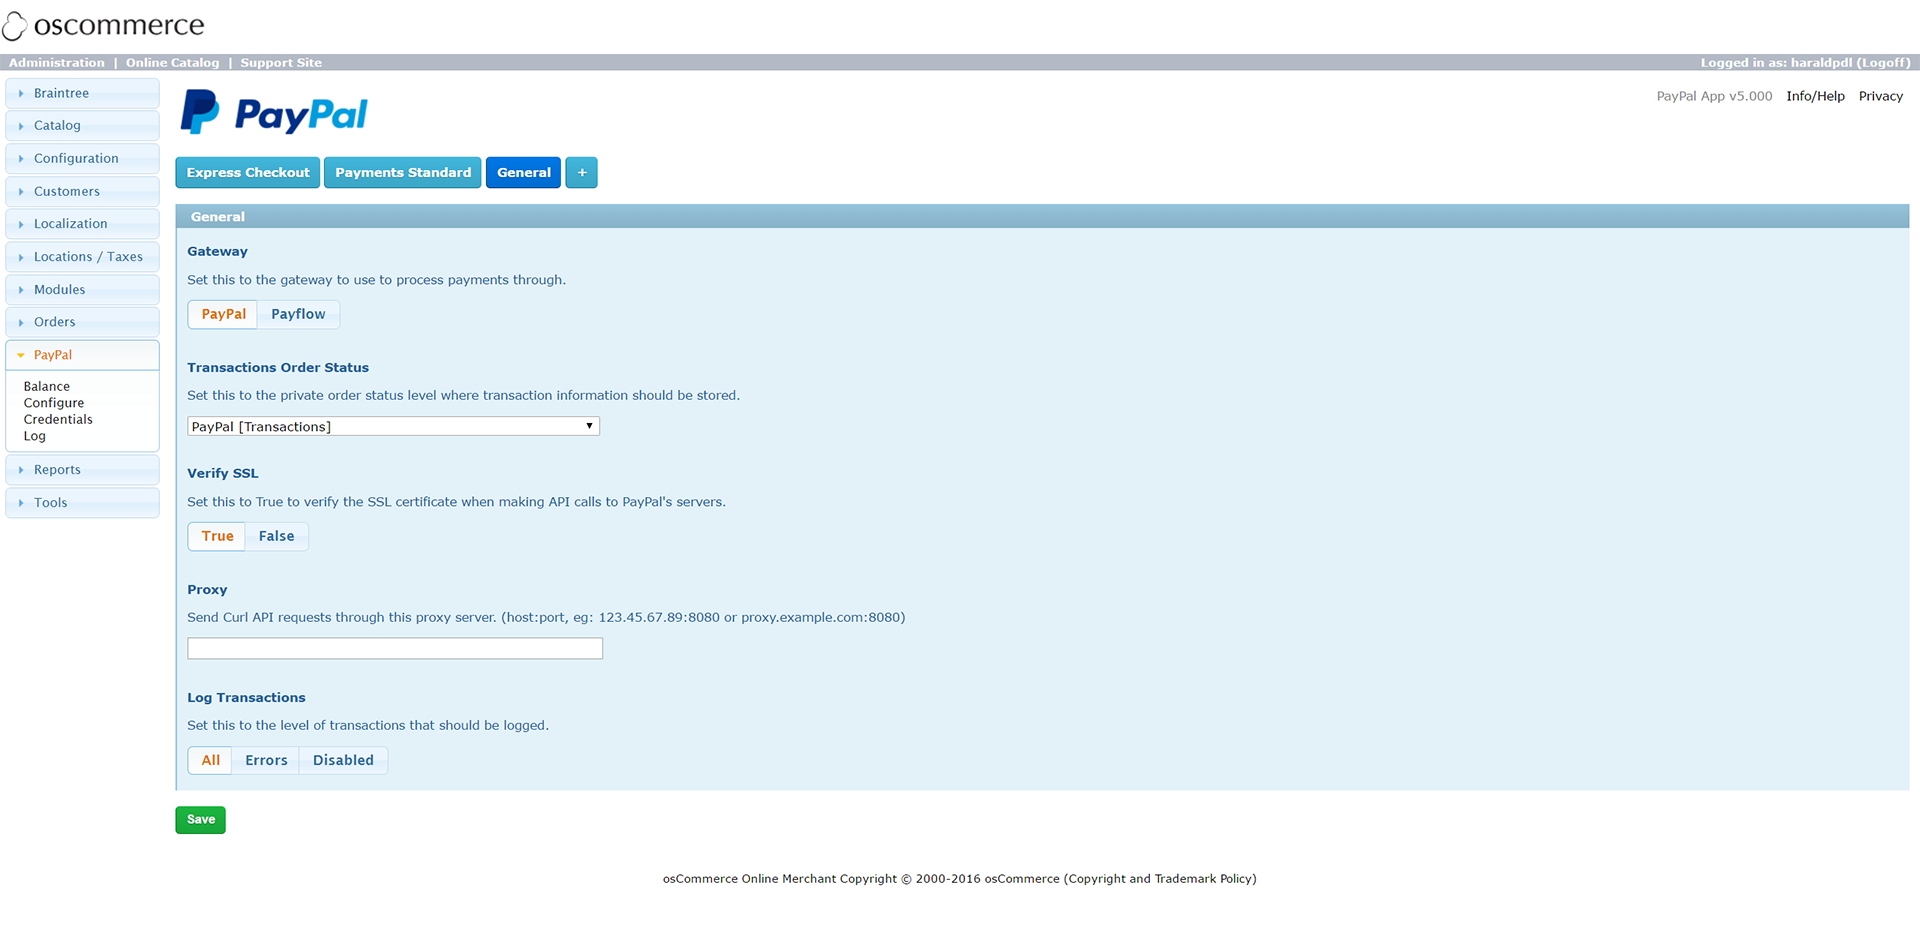
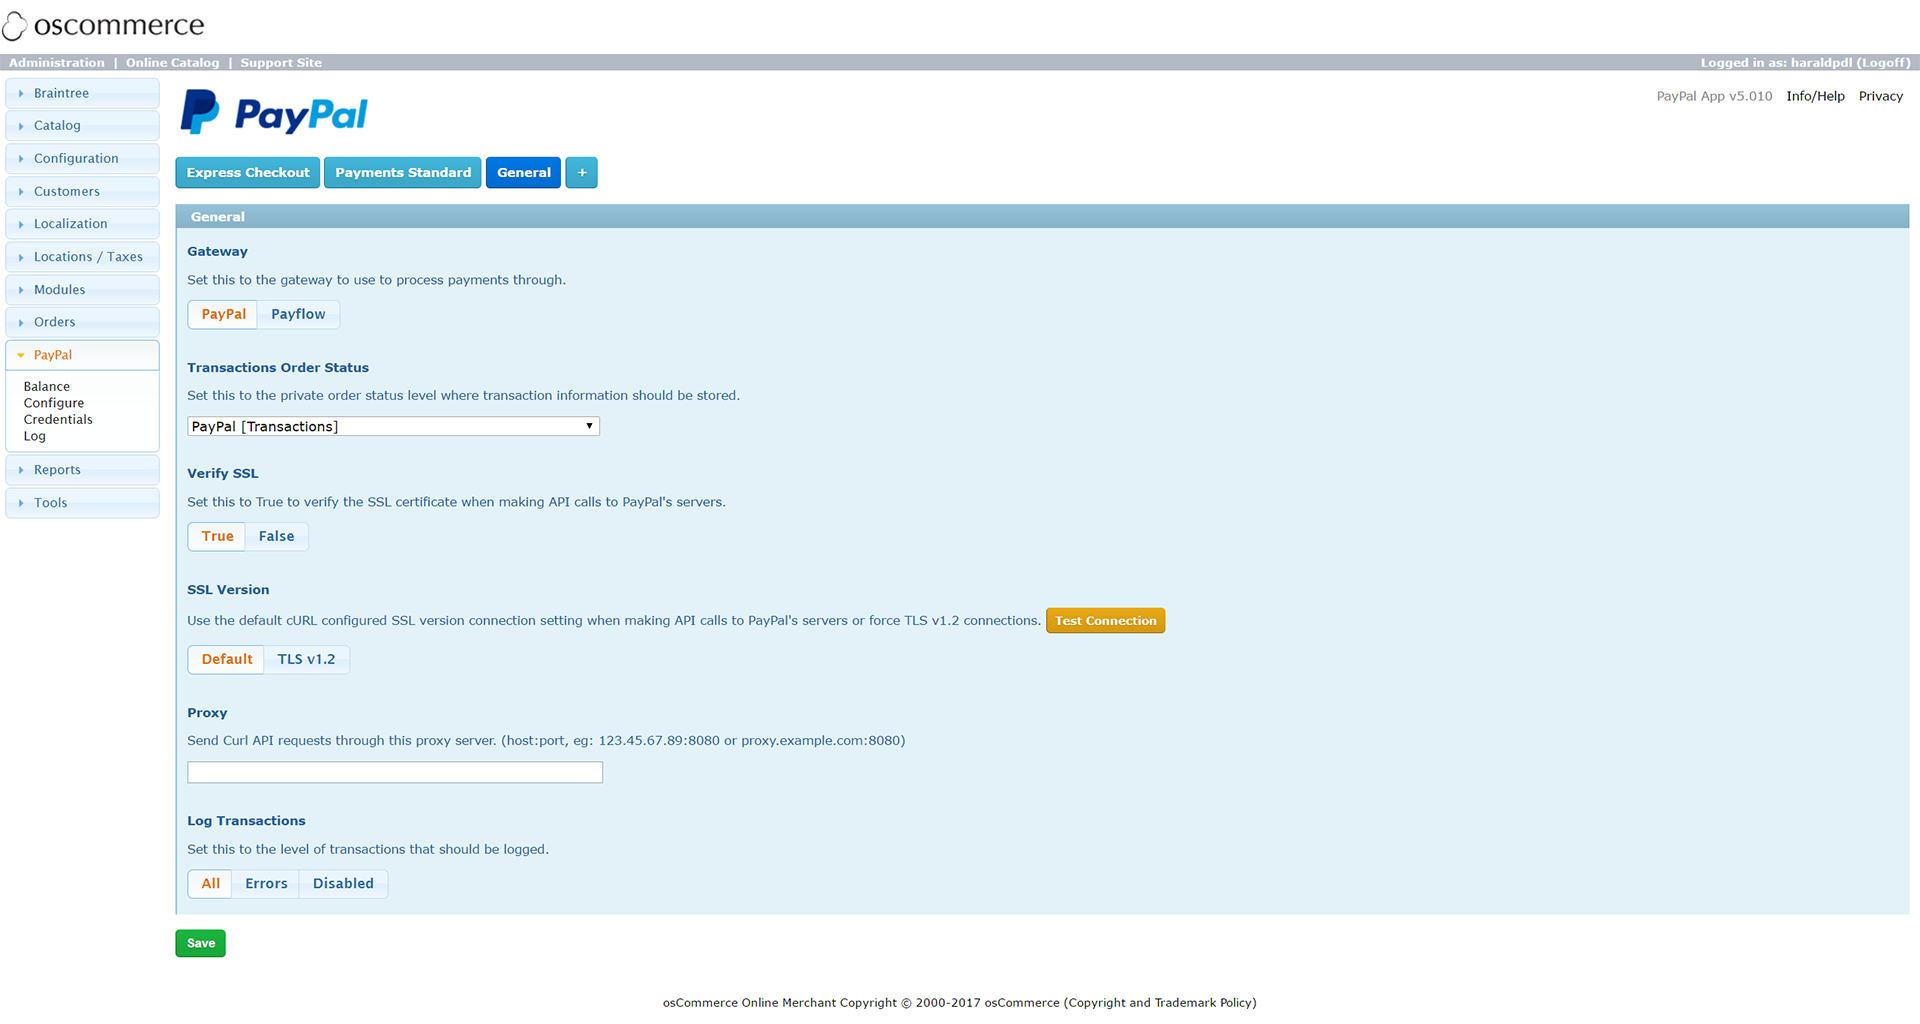
documentation for the SSL Version configuration parameter and Test Connection dialog

Changed region(s): [[0.0, 0.0, 1.0, 0.9605], [0.3438, 0.9295, 0.6562, 0.9915]]

diff --git a/oscom23/ssl_version.html b/oscom23/ssl_version.html
@@ -1,0 +1,17 @@
+<h3 class="notoc">TLS v1.2 Connections <small>cURL SSL Version</small></h3>
+
+<p>The Payment Card Industry Security Standards Council (PCI SSC) has mandated that from June 30, 2018 secure communication channels between two systems must be performed with a secure version of the Transport Layer Security (TLS) cryptographic protocol (currently v1.1 or higher). As a leader in Financial Technology, PayPal has elected to move forward with upgrading their systems prior to the PCI Council recommended date and are requiring all merchant API communications with PayPal to be performed with <strong>TLS v1.2</strong> from <strong>June 30, 2017</strong>, discontinuing support for TLS v1.0 and v1.1.</p>
+
+<p>Checking to see if the PayPal App can perform TLS v1.2 connections on your web server can be performed on the <span class="label label-default">Configure</span> &rarr; <span class="label label-info">General</span> page using the <span class="label label-warning">Test Connection</span> button shown in the SSL Version parameter configuration. This opens a dialog window showing the result of the connection test using the default SSL version configured with PHP/cURL and with a forced connection using TLS v1.2.</p>
+
+{image}app-ssl_version-01.png|The Test Connection dialog showing successful connections for the default PHP/cURL configuration and forced TLS v1.2 connections{image}
+
+<p>If the default setting is successful, it is generally safe to leave the SSL Version configuration parameter set to <i>Default</i>. This ensures that a connection to PayPal can be performed using at least TLS v1.2 or higher cryptographic protocol version.</p>
+
+{image}app-ssl_version-02.png|The Test Connection dialog showing a failed connection test using the default PHP/cURL configuration{image}
+
+<p>If a connection using the default PHP/cURL configuration fails, setting the SSL Version configuration parameter to <i>TLS v1.2</i> is required if the test connection using TLS v1.2 is successful. This overrides the default configuration of PHP/cURL on your web server and ensures that a connection to PayPal can be performed using the TLS v1.2 cryptographic protocol version.</p>
+
+{image}app-ssl_version-03.png|The Test Connection dialog showing a failed connection test using the default PHP/cURL configuration and a forced TLS v1.2 connection{image}
+
+<p>If both test connections fail, please consult with your hosting provider to upgrade the cURL version that is installed with your PHP web server to support TLS v1.2 connections. If this is not performed by June 30, 2017, connections to PayPal will fail and orders will no longer be able to be processed using PayPal as a payment method.</p>

diff --git a/oscom23/configuration.html b/oscom23/configuration.html
@@ -2,7 +2,7 @@
 
 <p>Global configuration parameters affect all App modules and can be configured on the <span class="label label-default">Configure</span> page using the <span class="label label-info">General</span> button.</p>
 
-{image}app-configure-01.png|Managing the PayPal account API Credentials{image}
+{image}app-configure-01.png|Configuring the global App configuration parameters{image}
 
 <dl>
   <dt>Gateway</dt>
@@ -27,6 +27,10 @@
     </ul>
   </dd>
   <dd>If connections to PayPal's servers cannot be made, disabling this setting may help however it is recommended to find a solution that allows this settings to remain enabled.</dd>
+
+  <dt>SSL Version</dt>
+  <dd>Use the default cURL configured SSL version connection setting when making API calls to PayPal or force TLS v1.2 connections.</dd>
+  <dd>A connection test can be performed using the <span class="label label-warning">Test Connection</span> button to open a dialog window showing the results of the default configured SSL version and forced TLS v1.2 connections.</dd>
 
   <dt>Proxy</dt>
   <dd>Some hosting providers require a proxy to be used for cURL connections to be made.</dd>
